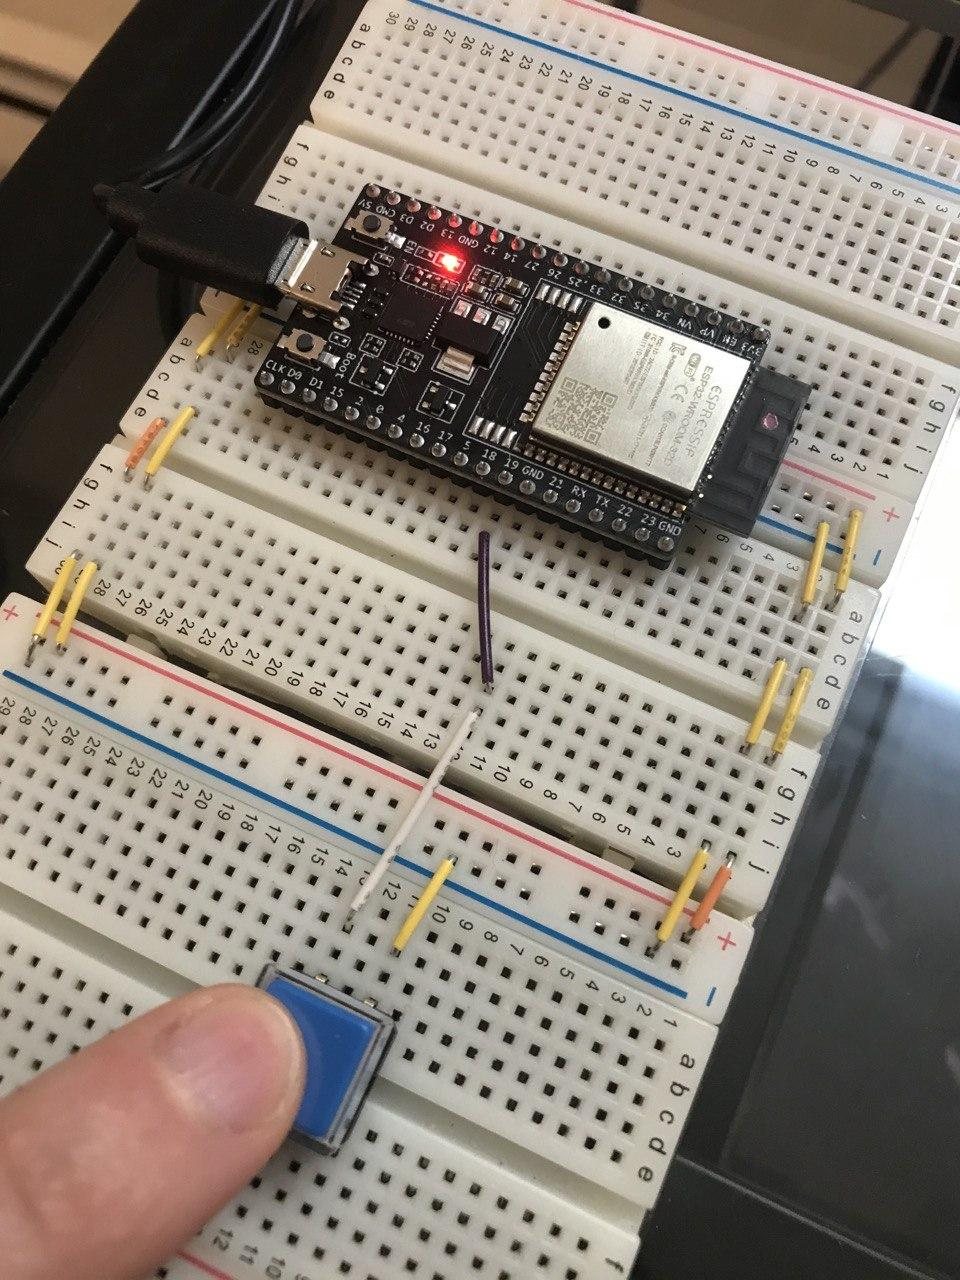
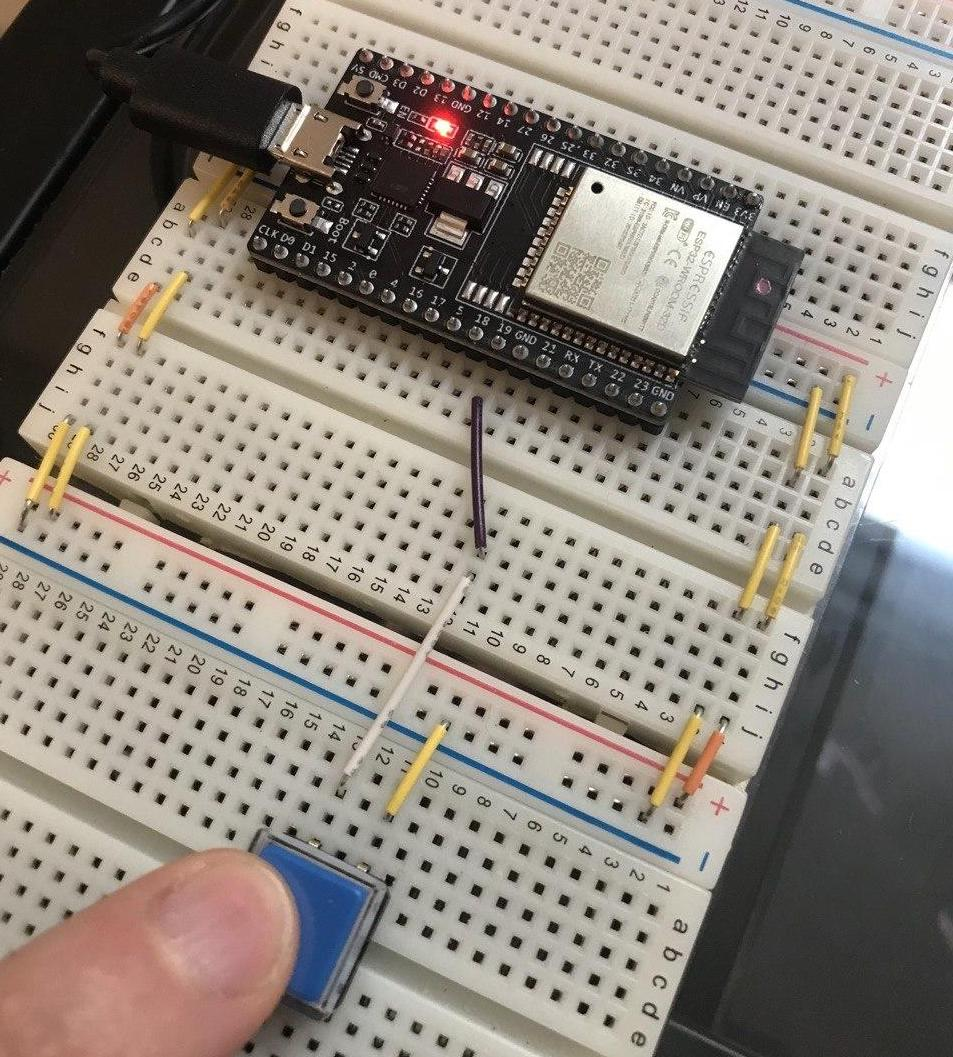
urop openings

diff --git a/classes/2020-fall-6810/connecting-microcontroller-to-ui/connecting-microcontroller-to-ui.html b/classes/2020-fall-6810/connecting-microcontroller-to-ui/connecting-microcontroller-to-ui.html
@@ -58,52 +58,48 @@
           <!-- Code in: Documents / Processing / SimpleWrite -->
           <!-- Code in: Documents / Arduino / serial-read -->
 
-In the next weeks, we are going to build a range of different physical user interfaces. Below, you see the basic pipeline we will cover before going into more advanced examples. <br><br>
+<h2 class="headline">Your Task for Today</h2>
 
-The pipeline consists of four steps:<br>
+You should hopefully received your package in the mail by now.</br>
+Today, we are going to wire up your touch button and connect it to Processing, i.e. when you push the physical touch button it will light up the corresponding digital touch button in Processing.<br>
+Your package also includes a printed electroluminescent display so that we can also show you how to communicate from Processing back to the ESP, i.e. when the digital button in Processing is clicked, your physical display will light up.<br>
+We will first prototype this with standard breadboard components (normal push button and LED) and then replace those elements with your printed electronics.<br><br>
 
-<ul>
-  <li>Fabricating the Sliders, Dials, and Multi-touch Pad (Printed Electronics)</li>
-  <li>Wiring up the Electronics and Performing Signal Processing on the Inputs from the User (Arduino)</li>
-  <li><b>Sending the results from the microcontroller to a User Interface (Arduino-Processing connection)</b></li>
-  <li>Displaying the Result in a graphical user interface on screen (Processing)</li>
-</ul>
-<br>
-
- <h3 class="headline">Reading input from the Microcontroller<br> and Displaying it in Processing</h3>
+ <h3 class="headline">Performing input on the Microcontroller<br> and Displaying it in Processing</h3>
 
 First, we are going to read some input from our microcontroller and display the resulting action in Processing.<br>
 In particular, we are going to wire up a button, and when the button is pressed, we will show this in Processing by coloring the corresponding button in the digital UI.<br><br>
 
-<h4>Wiring Up a Button</h4>
+<h4>Wiring Up a Button</h4><br>
 
 Let's start by wiring up a button.<br>
+If you haven't done this in a while, now is a good moment to familiarize yourself again with how to read a schematic and wire on the breadboard.<br><br>
 
 <img src="images/button-on-breadboard.jpg" width="250px"> <img src="images/button-on-breadboard-schematic.jpg" width="350px"><br><br>
 
-<h4>Create Microcontroller Script that Writes onto Serial Monitor</h4>
+<h4>Create Microcontroller Script that Writes onto Serial Monitor</h4><br>
 
 Next, we need to create the microcontroller script that reads the input from the button.<br>
 When the button is pushed, we want to write a message to the Serial port that indicates the push state.<br>
 Our seperate Processing application will then listen to the Serial port and whenever it sees a specific value, it will know if the button is pushed or not.<br><br>
 
-<b>Your task:</b> Write the Arduino script for reading the button input. When the button is pushed, write a 0 to the serial port using Serial.write(0). If the button is unpushed, write a 1 to the serial port using Serial.write(1). You can use any Serial baudrate you like, in our example we will use 9600. <br><br>
+<b>Your task:</b> Write the Arduino script for reading the button input. When the button is pushed, write a 0 to the serial port. If the button is unpushed, write a 1 to the serial port. Test your script by opening the Serial monitor and see if 1 and 0 are written depending on your button input.<br><br>
+
+<b>More Info on Serial:</b> You may want to look at the <a href="https://www.arduino.cc/reference/en/language/functions/communication/serial/">Serial reference in Arduino</a>. Remember from 6.08 that you first have to register the Serial connection in the setup function using <a href="https://www.arduino.cc/reference/en/language/functions/communication/serial/begin">Serial.begin()</a> and use one of the supported baud rates. You can find the baud rates in the Serial monitor. Since the baud rate determines the bit rate at which data is transmitted, a higher baud rate is better. Once you registered your Serial connection, you can write to it using <a href="https://www.arduino.cc/reference/en/language/functions/communication/serial/write">Serial.write()</a><br><br>
 
 <b>Important:</b> Once you confirmed that you button works, make sure you remove all Seriel.println debugging statements you may have used since they will otherwise add noise to the Serial stream the Processing application will listen to.<br><br>
 
-<img src="images/serial-write.png" width="300px">
+<h4>Create Processing Script that Listens to Serial Communication</h4>
 
-<h4>Create Processing Script that Listens to Serial Monitor</h4>
+Now that we are writing 0 and 1 to the Serial connection depending on whether the button is pressed or not pressed, we can write the Processing script that listens to the Serial connection and changes its visualization depending on the number read.<br><br>
 
-Now that we are writing 0 and 1 to the Serial Monitor depending on whether the button is pressed or not pressed, we can write the Processing script that listens to the Serial Monitor and changes its visualization depending on the number read.<br><br>
-
-To do this, you are going to use the Serial library.<br>
+To do this, open Processing and import the <a href="https://processing.org/reference/libraries/serial/index.html">Serial library</a>.<br>
 <code>import processing.serial.*;</code><br><br>
 
 Next, you need to create a new port by creating an object from this class: <br>
 <code>Serial myPort;</code><br><br>
 
-To initialize this object, you need a reference to the current application ('this'), a portname, and the baudrate to which the object should listen. You already know the baudrate (9600) and you can get the portname with this:<br><br>
+To initialize this object, you need a reference to the current application ('this'), a portname, and the baudrate to which the object should listen. You already know the baudrate and you can get the portname with this:<br><br>
 
 <code>String portName = Serial.list()[2]; //check which port you use: 0, 1, 2? it helps to verify you are listening to the right port with print(portName);</code><br><br>
 
@@ -116,63 +112,150 @@ In the draw function, you need to first check if the port is available, and then
 <code>
 int val;  <br>
 if ( myPort.available() > 0) {    // If data is available,<br>
-    val = myPort.read();         // read it and store it in val<br>
+    val = myPort.read();         // read it and store it in val, either 0 or 1<br>
   }<br>
 </code><br>
 
-Now you can do something based on the value:<br><br><br>
+Now you can do something based on the value.<br>
+Make your button from last week get colored green whenever your physical button is pushed (1), and let it return to silver whenever the button is unpushed (0).<br>
 
-<code>
-if (val == 0) {              // If the serial value is 0,<br>
-    fill(0);                   // set fill to black<br>
-  } <br>
-  else if (val == 1) {                       // If the serial value is not 0,<br>
-    fill(255);                 // set fill to light gray<br>
-  }<br>
-  rect(50, 50, 100, 100);<br>
-</code><br>
-
-Run the code and you should get a processing button that lights up black if your physical button is pushed and white if it is not pushed.<br><br>
+<br>
+<div style="background:#04a47c;padding:10px;">Checkoff 1: Show your working physical button that when pushed causes the Processing application to show the virtual button as pushed as well.</div><br><br>
 
 
- <h3 class="headline">Writing Output from Processing<br> and Using it on the Microcontroller</h3>
+<h4>Replacing the Standard Button with your Printed Touch Button</h4><br>
+
+We hope you received your custom touch button from last week. If not, your original package has a standard printed touch button (square) that you can use instead.<br><br>
+
+We are now going to replace the standard touch button with your custom touch button.<br>
+First, use the multimeter to check if you touch button is conductive and didn't break during transport.<br>
+If you don't remember how to use the multimeter, check last week's tutorial.<br><br>
+
+<img src="images/multimeter.jpg" width="300px"><br><br>
+
+Ok, if your multimeter shows low resistance, we are ready to wire up your touch button.<br>
+
+<b>Electronics:</b> To build the circuit to implement touch sensing you only need your touch sensor and one resistor (say some more why this is necessary). Low resistors (1kOhm - 100kOhm) are mostly used for sensing touch (see Figure below).
+
+<img src="images/touch-sensing-principle.png" width="300px"> <img src="images/touch-sensing-circuit.png" width="300px"><br><br>
+
+<img src="images/touch-sensor-on-breadboard.jpg" width="300px"> <img src="images/touch-sensor-on-breadboard-schematic.png" width="300px"><br><br>
+
+<b>Code:</b> Once you build your circuit, you can write the code to read input from your touch sensor. Capacitive touch sensing is luckily already supported by the Arduino Toolkit.<br><br>
+
+Download the latest <a href="https://github.com/PaulStoffregen/CapacitiveSensor"> library CapacitiveSensor for Arduino from here</a> and place it into your Documents / Arduino / Libraries folder (unzip it and rename it to 'CapacitiveSensor'). Restart your Arduino software, otherwise the library is not recognized.<br><br>
+
+First you need to import the library:<br>  
+<code>#include CapacitiveSensor.h</code><br>  <br>  
+
+Next, you need to create a new CapacitiveSensor object:<br>  
+<code>CapacitiveSensor sensor1 = CapacitiveSensor(sender, touch_pin_1);</code><br>  
+It takes as input the pin that has the high signal and the receiver pin.<br><br>  
+
+In the loop function, you are now ready to read from the sensor.<br>  <br>  
+
+<code>double analog_touch = sensor1.capacitiveSensor(samples_touch);</code><br>  
+The argument <b>samples</b> defines the sensitivity of the sensor.<br>  <br>  
+For touch sensing a low sensitivity is common with samples between 1 and 20. <br><br>
+
+If you print analog_touch to the Serial monitor and you touch your touch button, you should be able to see the values change quite drastically. Do some simple thresholding to determine when the button is pushed and when it is not pushed (e.g., values above XX equal pushed, values below XX equal unpushed). <br><br> 
+
+<div style="background:#04a47c;padding:10px;">Checkoff 2: Show your working touch sensor that when pushed, prints 'pushed' to the Serial monitor and otherwise prints 'unpushed'.</div><br>
+
+ <h3 class="headline">Performing Input in Processing<br> and Using it on the Microcontroller</h3>
 
 Let's do it the other way around and write some output from Processing onto the microcontroller.<br>
-In our simple example, we will light up an LED when the user clicks a button in the Processing UI.<br>
+In our simple example, we will light up an LED when the user clicks a button in the Processing UI, and then later replace it with our printed EL display.<br><br>
 
-<h4>Wiring Up an LED</h4>
+<h4>Wiring Up an LED and Write Basic On/Off Code</h4>
+
+Let's start by wiring up an LED on the breadboard and writing the basic code to turn the LED on/off. <br>
+If you haven't coded in Arduino for a while, you may want to look at 'Examples -> Blink' to see how to read input from a pin and turn your LED on/off.<br><br>
 
 <img src="images/led-on-breadboard.jpg" width="250px"> <img src="images/led-on-breadboard-schematic.png" width="350px"><br><br>
 
 <h4>Create Microcontroller Script that Reads from Serial Monitor</h4>
 
-This part is very similar to the previous code, just that instead of Serial.write() you are now going to use Serial.read() to determine if the LED should be high or low.<br><br>
+Once you confirmed that your LED works (i.e. you tested it turns on), we will now write a piece of Arduino code that will listen to the Serial communication and whenever it encounters a '2' it will light up the LED and when it encounters a '3' it will turn the LED off.<br><br> 
 
-<img src="images/serial-read.png" width="300px"><br><br>
+This part is very similar to the previous Arduino code, just that instead of Serial.write() you are now going to use <a href="https://www.arduino.cc/reference/en/language/functions/communication/serial/read">Serial.read()</a> to determine if a 2 or 3 was send and the LED should be on or off.<br><br>
 
-Complete the rest of the Arduino script for turning on/off your LED and test it manually by setting val to 0 or 1 manually. If the LED lights up, remove the line again and have it read from the Serial monitor.<br><br>
+Complete the rest of the Arduino script for turning on/off your LED by reading from the Serial connection and upload it to the microcontroller.<br>
+We will test this in a moment when we connect it to Processing.<br><br>
 
 <h4>Create Processing Script that Writes to Serial Monitor</h4>
 
-Once you uploaded your Arduino code, we are now ready to write a Processing script to write to the serial monitor if the LED should be on or off.<br>
-Whenever a button is clicked in the Processing UI, we want to turn on the LED. <br><br>
+Once you uploaded your Arduino code, we are now ready to write a Processing script to write to the serial connection the '2' or '3' values, which can then be used by the Arduino code to decide if the LED should be on or off.<br>
+Whenever a button is clicked in the Processing UI, we want to write a '2', otherwise a '3'. <br><br>
 
-The setup code is the same as above, but now you are using<br>
-<code>myPort.write(0); // 0 or 1 depending on state</code><br><br>
+The setup code is the same as in the previous Processing example above, but now you are using<br>
+<code>myPort.write(2); // 2 or 3 depending on state</code><br><br>
 
 <b>Your task:</b> Complete the Processing script so that when you click on a button, the LED comes on. <br><br>
 
-<b>Important:</b> Note that there is a 3-5 second delay before the LED comes on which is due to the Serial port speed.<br><br>
+<h4>Replacing the Standard LED with your Printed Display: Understanding EL Displays</h4><br>
+
+In your package, you also received a custom printed display.<br>
+This display is called electroluminescent display and we screen printed it from four different materials placed into four layers.<br>
+<br>
+
+<b>Materials and Layerstack:</b> An EL display contains (1) phosphor, which can glow when current is applied. To make it glow, the phosphor has to be sandwiched by a bottom and top electrodide. The bottom electrode can be a conductive material, such as (2) our silver ink (alternatively copper can be used for even higher conductivity). The top electrode cannot be made from silver since you would otherwise not see the phosphor anymore! Thus, the top electrode is made from a transparent conductive material called (3) PEDOT:PSS. Finally, since the phosphor and the electrodes are all conductive, we cannot lay them all on top of each other since this would create a short circuit. Therefore, we need to add (4) a dielectric insulating layer between the bottom electrode and the phosphor (conceptually, the dielectric could also be between the phosphor and the top electrode, but again then you wouldn't see anything anymore since the dieletric is not transparent). <br><br>
+
+You can buy the materials here: <br>
+<ul>
+	<li>copper ink (add link)</li>
+	<li>PEDOT:PSS (add link)</li>
+	<li>Phosphor (add link)</li>
+	<li>Dieletric (add link)</li>
+</ul>
+
+<img src="images/el-materials.png" width="400px"><br>
+<img src="images/el-layerstack.png" width="500px"><br><br>
+
+<b>Size of each layer:</b> Note that the dieletric layer is a bit larger than the other layers. Since the dieletric layer prevents everything from short circuiting, it should be a bit larger to make sure all other layers are really seperated from each other and not touching. <br><br>
+
+<img src="images/el-area-sizes.png" width="500px"><br><br>
+
+<b>Fabrication:</b> While the silver ink and PEDOT:PSS can be inkjet printed, the phosphor and dieletric have unfortunately too large particules in their inks, which clogg printer nozzles. We there screen printed the display you got. Below, you can see images of how we did it.<br><br>
+
+<img src="images/screen-printing.jpg" width="500px"><br><br>
+
+<b>Capabilities of the Display:</b> The display you got is a simple area display that can turn on/off but does not have pixels. Note that we can also create simple matrix displays as shown below. Unfortunately, to date, EL displays are still limited to single color only.<br><br>
+
+<b>Masking of Display:</b> Note that although we gave you a square display, you can create your own shape by masking the display, i.e. cutting a shape and attaching it to the display to cover the remaining area so that no light comes through.<br><br>
+
+<img src="images/printscreen1.jpg" width="220px">
+<img src="images/printscreen2.jpg" width="145px">
+<img src="images/printscreen3.jpg" width="345px"><br><br>
+
+<h4>Wiring up the EL Display</h4><br>
+
+With that information in mind, we are now ready to connect your EL display to the microcontroller.<br>
+First, use the multimeter to check if your display is conductive and didn't break during transport.<br>
+
+<img src="images/multimeter.jpg" width="300px"><br><br>
+
+Ok, if your multimeter shows low resistance, we are ready to wire up your EL display.<br>
+
+<b>Electronics:</b> To light up your EL display, you need to build the following circuit (add more information here).
+
+<img src="images/touch-sensing-circuit.png" width="300px"><br><br>
+
+<b>Code:</b> Once you build your circuit, you can write the code to light up your EL display (add more information here). <br><br>
+
+<h4>Connecting EL Display to Processing</h4><br>
+
+Now that you know your EL display is working properly, you can make it light up based on the information coming from the Serial communication. Replace the hard coded on/off for the EL display with the '2' or '3' date you are reading from the Serial monitor. <br><br>
+
+<h4>Bringing it all together</h4>
+
+In a final step, extend your code so that whenever your physical touch button is pressed, your EL display lights up. Note this does not require any serial communication, you can simple extend your Arduino script to also account for this, i.e. the EL display can be controlled both with the physical touch button AND with the digital button on screen.<br><br>
+
+<div style="background:#04a47c;padding:10px;">Checkoff 4: Show your working EL display that lights up both when the button in Processing is pushed or when the physical touch button is pushed.</div><br>
 
  <h3 class="headline">Conclusion</h3>
 
 Great, so now we can both read microcontroller input and display it in Processing and also use Processing to control our microcontroller. This will come in handy in the future when we want to build and test more advanced user interfaces.<br><br>
-
-
-
-
-
-
 
 <br>
 

diff --git a/classes/2020-fall-6810/drawing-for-inkjet-printing/make-drawing-for-printing.html b/classes/2020-fall-6810/drawing-for-inkjet-printing/make-drawing-for-printing.html
@@ -86,7 +86,8 @@ For starters, we are going to build some simple touch buttons, sliders, and dial
 
 <h4>Touch Buttons</h4><br>
 
-Touch-buttons consist of one shape + one wire that connects to the microcontroller.<br><br>
+Touch-buttons consist of one shape + one wire that connects to the microcontroller.<br>
+We can sense a user's touch using a principle called <b>capacitive touch sensing</b>, which requires only one electrode.<br><br>
 
 <img src="images/touch-button-decorative1.png" width="300px"><br>
 
